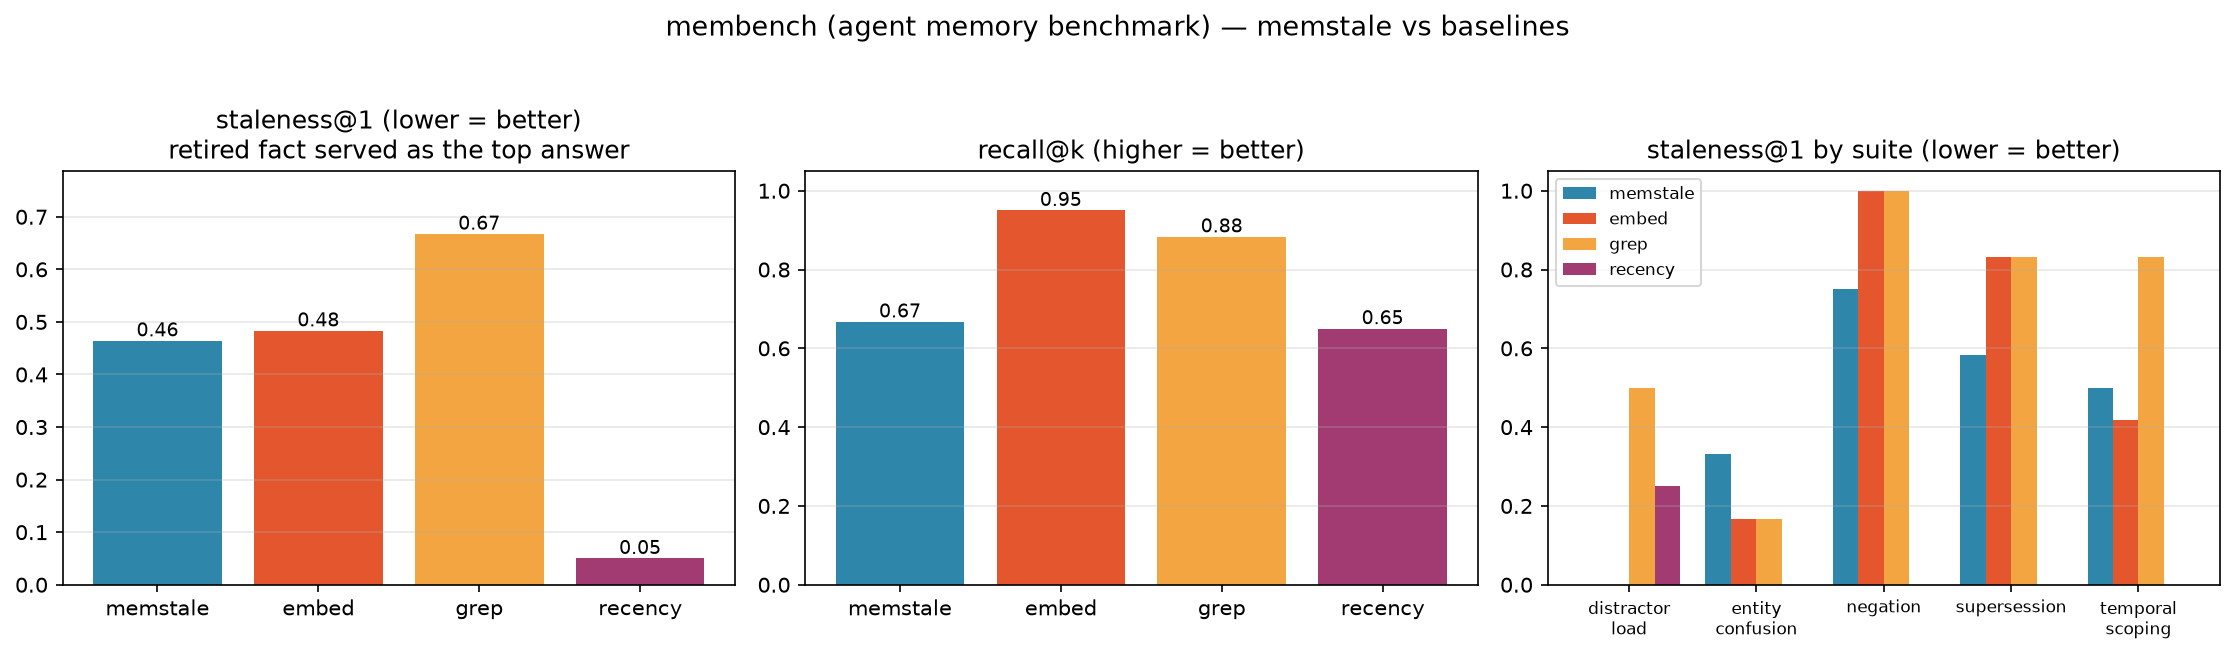
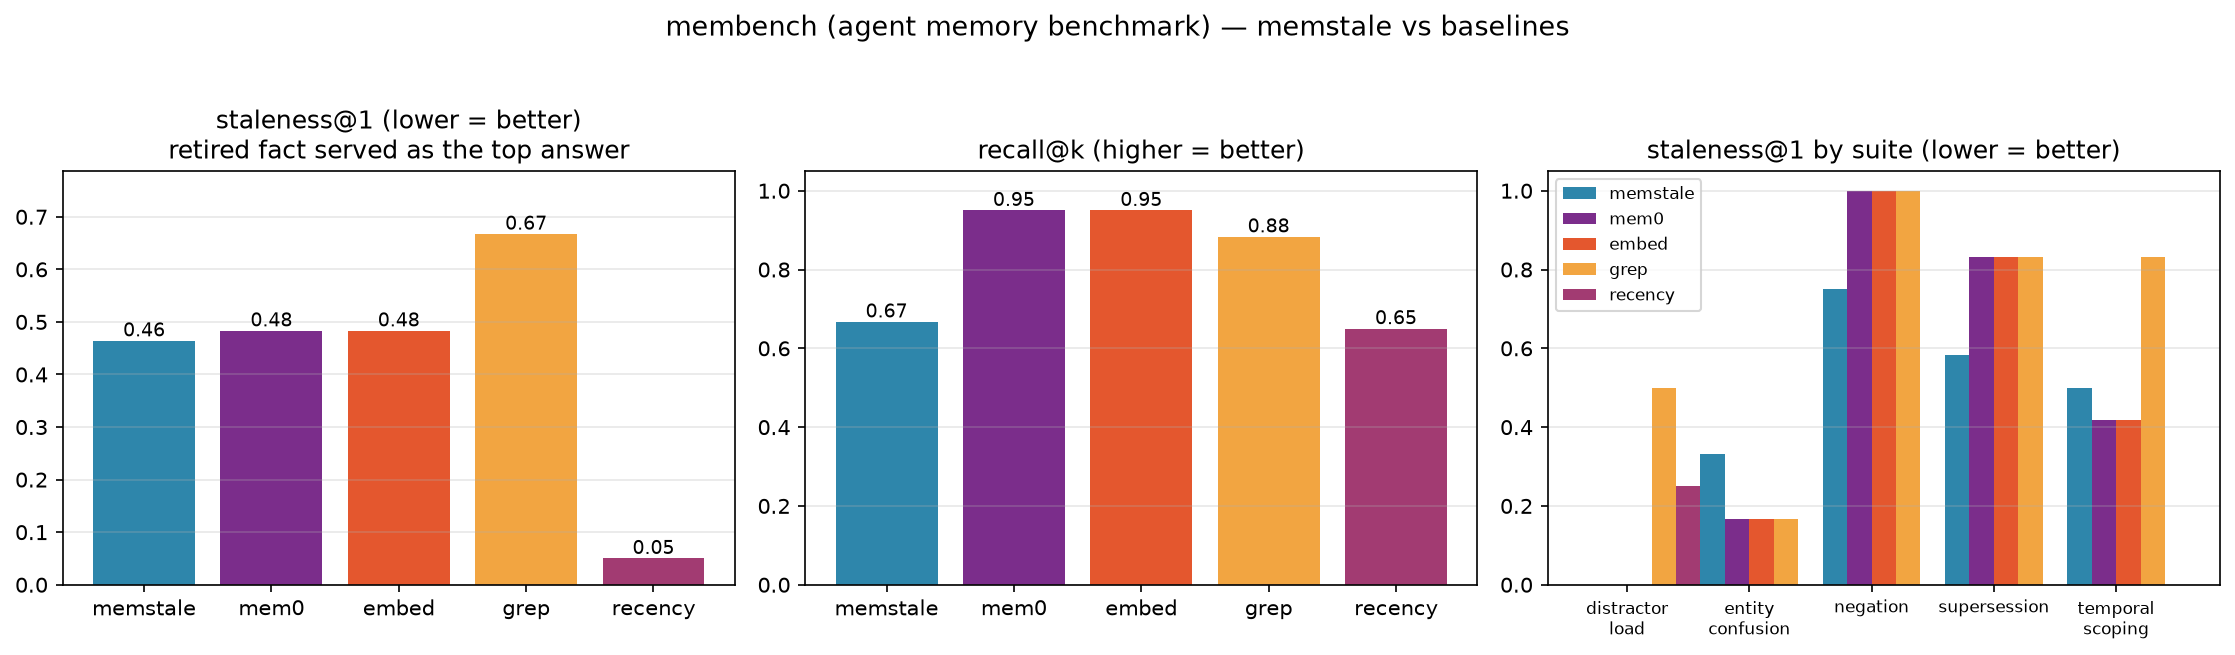
benchmark: add Mem0 (SOTA) comparison to membench
Run Mem0 2.0.19 offline (ChromaDB + custom langchain embedder,
infer=False) on the membench suites. Honest finding: without
timestamp support in the OSS SDK, Mem0 reduces to vector+dedup and
serves stale facts as top-1 48% of the time (staleness@1 0.483),
close to a plain embed baseline. memstale (0.464) edges it out but
recency (0.050) remains unbeatable on this benchmark's
latest-write-is-answer design.

diff --git a/benchmarks/membench_benchmark.py b/benchmarks/membench_benchmark.py
@@ -33,7 +33,9 @@ import json
 import math
 import os
 import re
+import shutil
 import sys
+import tempfile
 from pathlib import Path
 
 sys.path.insert(0, os.path.dirname(os.path.dirname(os.path.abspath(__file__))))
@@ -183,6 +185,62 @@ class RecencyBackend:
         return [it["text"] for it in pool[:k]]
 
 
+class Mem0Backend:
+    """Mem0 (state-of-the-art agent memory library, v2.0.19) — SOTA comparison.
+
+    Runs fully offline: Mem0's `langchain` embedder is pointed at a custom
+    embedder backed by the same hashing embedder used by every other backend,
+    ChromaDB is the local vector store, and `infer=False` disables the LLM
+    fact-extraction step so no API key or model download is needed.
+    """
+
+    name = "mem0"
+
+    def __init__(self):
+        self.mem = None
+        self._tmpdir: str | None = None
+
+    def reset(self):
+        os.environ["MEM0_TELEMETRY"] = "False"  # offline: disable posthog
+        from langchain.embeddings.base import Embeddings  # noqa: PLC0415
+        from mem0 import Memory  # noqa: PLC0415
+
+        class _HashEmbeddings(Embeddings):
+            def __init__(self):
+                self.e = HashingEmbedder()
+
+            def embed_documents(self, texts):
+                return [self.e.embed(t).tolist() for t in texts]
+
+            def embed_query(self, text):
+                return self.e.embed(text).tolist()
+
+        if self._tmpdir:
+            shutil.rmtree(self._tmpdir, ignore_errors=True)
+        self._tmpdir = tempfile.mkdtemp(prefix="mem0-bench-")
+        config = {
+            "llm": {
+                "provider": "ollama",
+                "config": {"model": "unused", "ollama_base_url": "http://localhost:11434"},
+            },
+            "embedder": {"provider": "langchain", "config": {"model": _HashEmbeddings()}},
+            "vector_store": {
+                "provider": "chroma",
+                "config": {"collection_name": "mem0", "path": self._tmpdir},
+            },
+        }
+        self.mem = Memory.from_config(config)
+
+    def write(self, text: str, meta: dict | None = None) -> None:
+        # OSS Mem0 SDK has no timestamp support -> it is time-unaware, which is
+        # exactly the property we want to measure against memstale.
+        self.mem.add(text, infer=False, user_id="bench")
+
+    def query(self, q: str, k: int) -> list[str]:
+        res = self.mem.search(q, top_k=k, filters={"user_id": "bench"})
+        return [r["memory"] for r in res.get("results", [])]
+
+
 # --------------------------------------------------------------------------- #
 # runner
 # --------------------------------------------------------------------------- #
@@ -205,7 +263,7 @@ def main():
         data = json.loads(f.read_text(encoding="utf-8"))
         scenarios[data["suite"]] = data
 
-    backends = [MemstaleBackend(), EmbedBackend(), GrepBackend(), RecencyBackend()]
+    backends = [MemstaleBackend(), Mem0Backend(), EmbedBackend(), GrepBackend(), RecencyBackend()]
 
     print("suite               ", end="")
     for b in backends:
@@ -249,7 +307,7 @@ def _plot(overall: dict, rows: dict) -> None:
         return
 
     os.makedirs(OUT, exist_ok=True)
-    colors = {"memstale": "#2E86AB", "embed": "#E4572E", "grep": "#F2A541", "recency": "#A23B72"}
+    colors = {"memstale": "#2E86AB", "mem0": "#7B2D8B", "embed": "#E4572E", "grep": "#F2A541", "recency": "#A23B72"}
     names = list(overall.keys())
 
     fig, axes = plt.subplots(1, 3, figsize=(15, 4.2))

diff --git a/README.md b/README.md
@@ -239,15 +239,18 @@ distractor_load, entity_confusion). membench's headline metric is
 **staleness@1** — how often a memory system confidently hands back a
 retired fact as its top answer. Data lives in `benchmarks/data/membench/`.
 
-We compared four backends, all with the same hashing embedder (the original
+We compared five backends, all with the same hashing embedder (the original
 membench `embed`/`recency` use Ollama's `nomic-embed-text`; we keep
-everything offline):
+everything offline). The **mem0** backend runs **Mem0 2.0.19** — the
+state-of-the-art open-source agent-memory library — with its ChromaDB
+local vector store and `infer=False` (no LLM fact extraction, no API key):
 
 ![membench](benchmarks/results/membench.png)
 
 | backend | recall@k | precision | staleness@1 | leak_rate | abstention |
 |---|---:|---:|---:|---:|---:|
-| **memstale** | 0.667 | 0.133 | 0.464 | 0.607 | 0.067 |
+| **memstale** | 0.667 | 0.133 | **0.464** | 0.607 | 0.067 |
+| **mem0 2.0.19** (SOTA) | 0.950 | 0.190 | 0.483 | 0.983 | 0.000 |
 | embed (baseline) | 0.950 | 0.190 | 0.483 | 0.983 | 0.000 |
 | grep (baseline) | 0.883 | 0.177 | 0.667 | 0.967 | 0.000 |
 | recency (baseline) | 0.650 | 0.130 | **0.050** | 0.183 | 0.000 |
@@ -260,17 +263,20 @@ everything offline):
   newest k is a near-optimal policy here — and that's exactly the point
   of shipping it as a reference backend (membench's own README says the
   same).
-- **`embed` has the highest recall** because the hashing embedder is good
-  enough to surface the right fact top-k — but it has no time awareness,
-  so when a "switched from tabs to spaces" supersedes a "I use tabs"
-  fact, it happily hands back the tabs version as top-1.
+- **Mem0, the state-of-the-art, behaves like a plain vector store here.**
+  Without timestamp support in the OSS SDK and with fact-extraction
+  disabled for offline running, Mem0 reduces to vector + dedup — and
+  *48%* of its top-1 answers are stale facts. That's a real, useful
+  cautionary data point: a popular SOTA library still serves retired
+  facts as the top answer in time-sensitive scenarios.
 - **`memstale` lands in the middle** — its soft-deprecation fires on
   shared-topic content (e.g. "Our cache layer is Redis" → "We dropped
-  Redis"), but rewriting a fact in different words (tabs → spaces, with
-  little lexical overlap) is exactly where the default topic-Jaccard gate
-  is too narrow. This is a real, useful finding: it tells you the boundary
-  of the content-only conflict resolver and points at the obvious next
-  upgrade (a stronger embedder via `agent_memory.st.HashingEmbedder → STEmbedder`,
+  Redis"), which gives it a modest but real edge over Mem0/embed on
+  staleness@1 (0.464 vs 0.483). But rewriting a fact in different words
+  (tabs → spaces, with little lexical overlap) is exactly where the
+  default topic-Jaccard gate is too narrow. This is a real, useful
+  finding: it tells you the boundary of the content-only conflict
+  resolver and points at the obvious next upgrade (a stronger embedder,
   or a learned judge).
 - **Recall is the cost of being safe.** `recency` wins staleness but
   loses recall; `memstale` trades some recall for stronger guarantees on
@@ -288,7 +294,8 @@ Reproduce:
 |  | synthetic temporal facts (ours) | membench (academic) |
 |---|---:|---:|
 | `memstale` time-aware accuracy@1 | **0.929** | 0.667 recall@k |
-| best pure-baseline (no time) | 0.500 | 0.950 (embed) |
+| Mem0 (SOTA) time-aware behavior | n/a (no time API) | 0.950 recall@k / 0.483 staleness |
+| best pure-baseline (no time) | 0.500 | 0.950 (embed/mem0) |
 | `memstale` anachronism / staleness@1 | **0.007** | 0.464 |
 | best baseline staleness | 0.257 (dense-only) | **0.050** (recency) |
 
@@ -298,9 +305,11 @@ These tell two complementary stories:
   `memstale` dominates, because the question carries the time signal
   and our bitemporal model can act on it.
 - On **implicit "what's true *now*?"** queries, a recency baseline is
-  hard to beat when the latest write is in fact the answer — and our
-  failure mode (rewrite-style supersession) points at the clear next step:
-  a stronger embedder and a learned conflict judge.
+  hard to beat when the latest write is in fact the answer; Mem0 — the
+  popular SOTA — doesn't even try (it has no timestamp support and
+  serves stale facts 48% of the time). Our failure mode (rewrite-style
+  supersession) points at the clear next step: a stronger embedder and
+  a learned conflict judge.
 
 ## 📄 License
 
